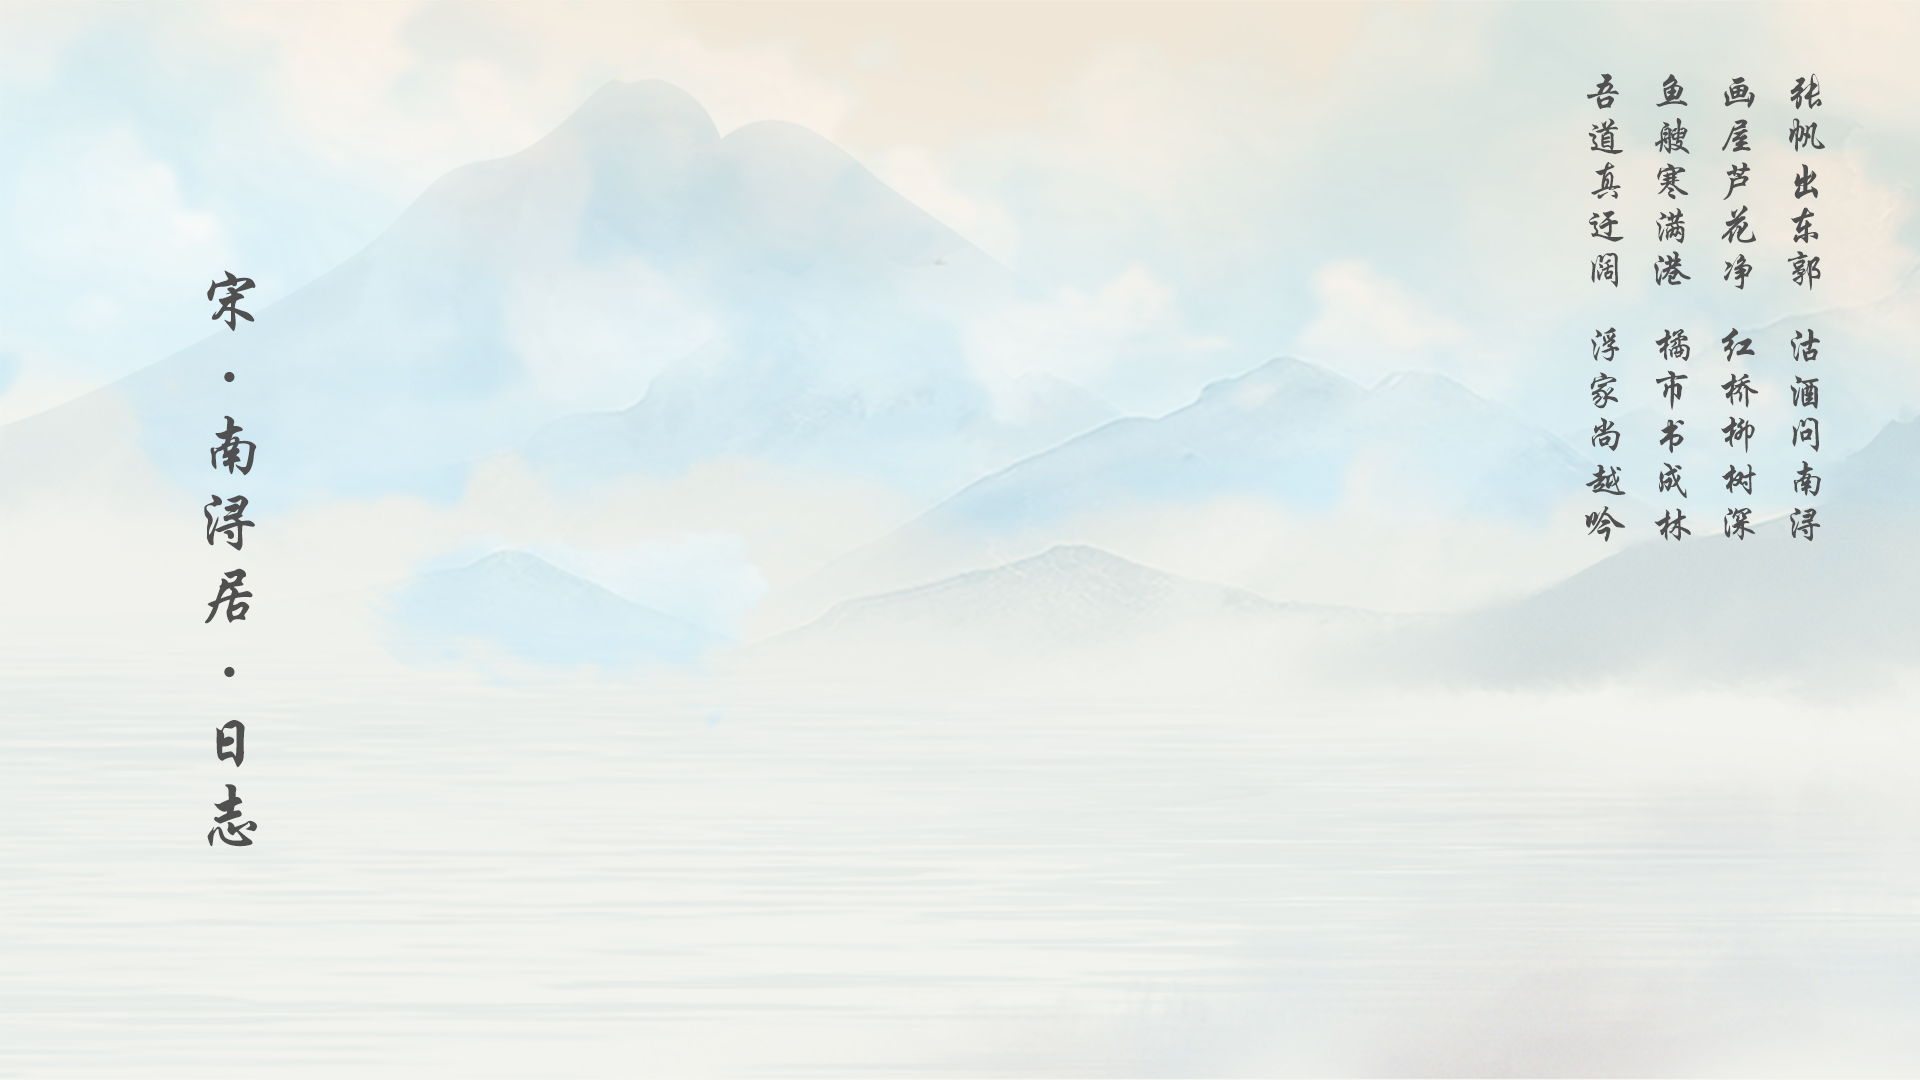
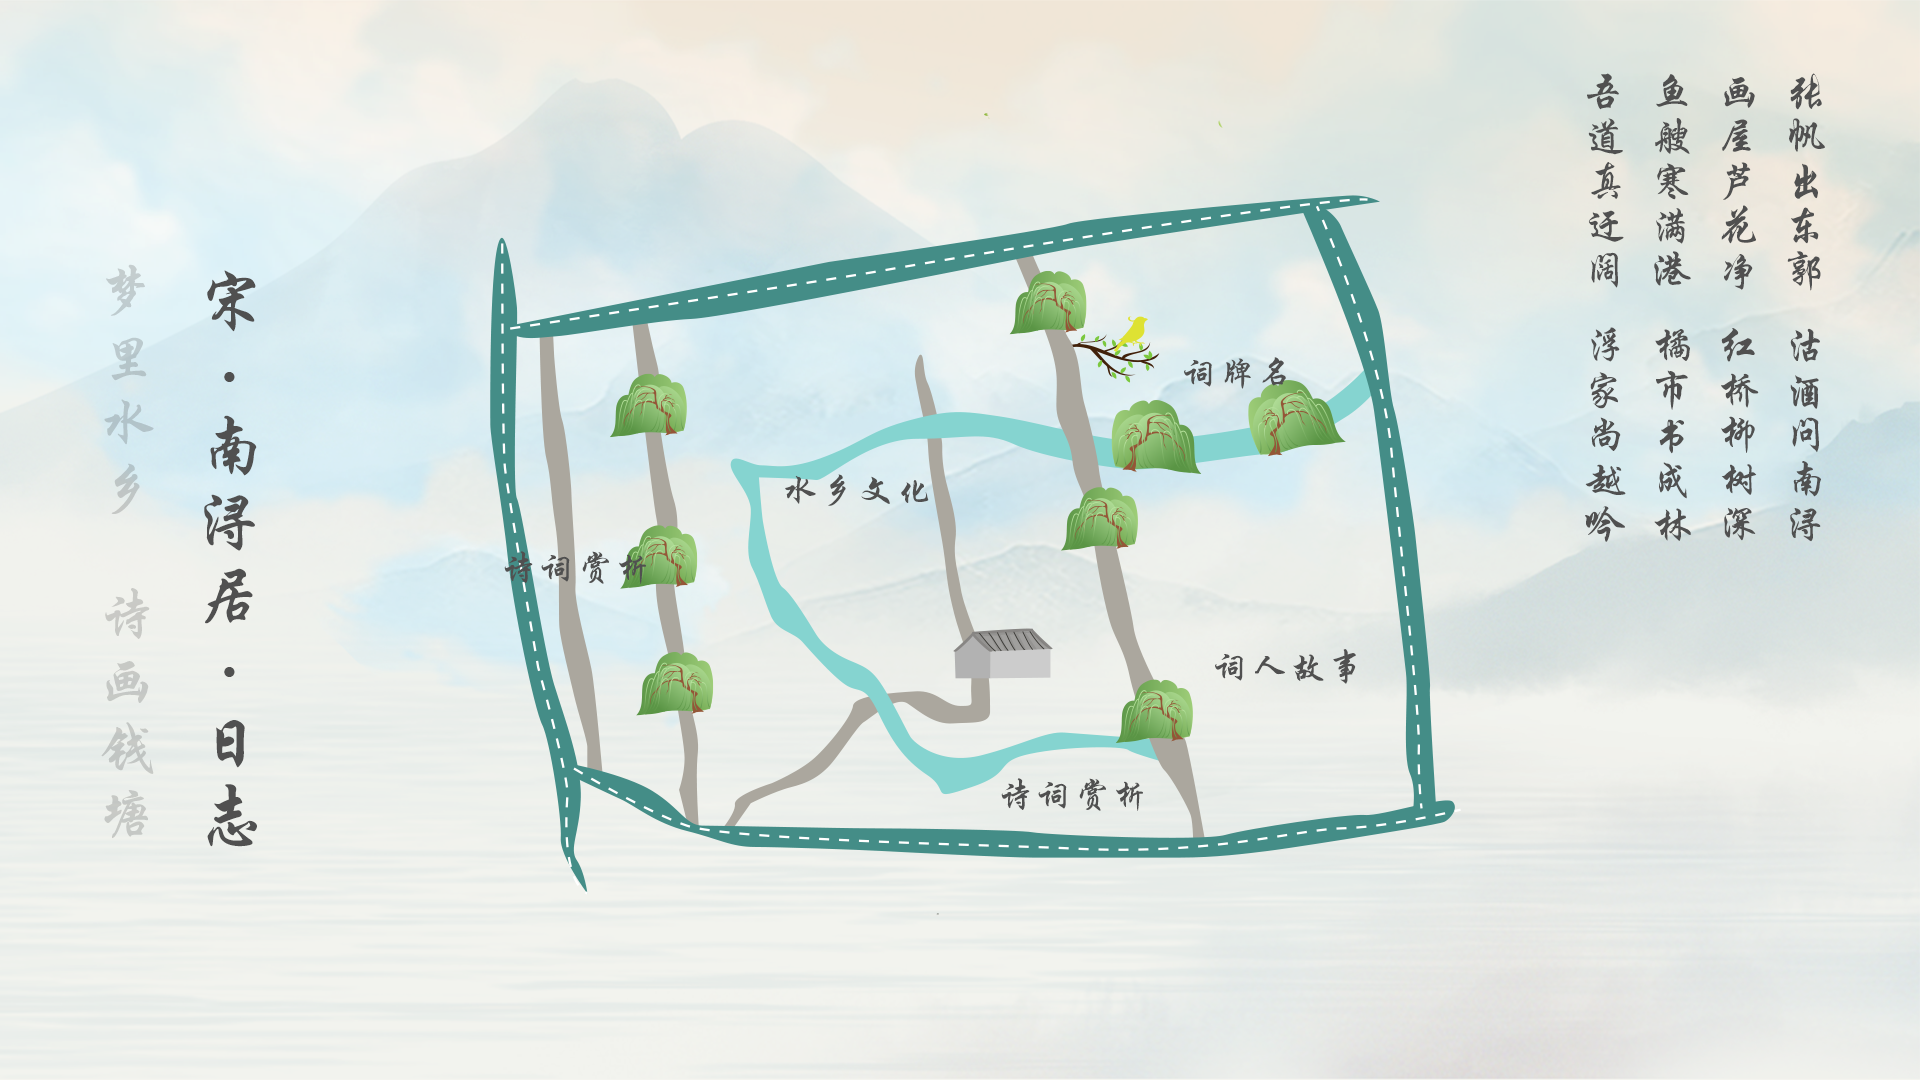
Add files via upload

diff --git a/summary/ditu2.css b/summary/ditu2.css
@@ -48,8 +48,8 @@ img{
     z-index: 80;
     width: 7%;
     height: 9%;
-    top:40%;
-    left: 23%;
+    top:41%;
+    left: 27%;
     cursor: pointer;
 }
 .img2_9{
@@ -57,8 +57,8 @@ img{
     z-index: 80;
     width: 7%;
     height: 9%;
-    top:33%;
-    left: 40%;
+    top:34%;
+    left: 42%;
     cursor: pointer;
 }
 .img2_10{
@@ -66,7 +66,7 @@ img{
     z-index: 80;
     width: 8%;
     height: 6%;
-    top:25%;
+    top:26%;
     left: 60%;
     cursor: pointer;
 }
@@ -75,17 +75,17 @@ img{
     z-index: 80;
     width: 7%;
     height: 12%;
-    top:50%;
+    top:48%;
     left: 63%;
     cursor: pointer;
 }
 .img2_13{
     position: absolute;
     z-index: 80;
-    width:6%;
-    height:9%;
-    top:68%;
-    left: 50%;
+    width:5%;
+    height:8%;
+    top:63%;
+    left: 52%;
     cursor: pointer;
 }
 .img2_15{
@@ -93,7 +93,7 @@ img{
     z-index: 80;
     width:6%;
     height:11%;
-    top:50%;
+    top:48%;
     left: 37%;
     cursor: pointer;
 }

diff --git a/summary/ditu.css b/summary/ditu.css
@@ -48,8 +48,8 @@ img{
     z-index: 80;
     width: 8%;
     height: 10%;
-    top:27%;
-    left: 40%;
+    top:28%;
+    left: 39%;
     cursor: pointer;
 }
 .img2_2{
@@ -57,8 +57,8 @@ img{
     z-index: 80;
     width: 5%;
     height: 6%;
-    top:33%;
-    left: 55%;
+    top:34%;
+    left: 52%;
     cursor: pointer;
 }
 .img2_3{
@@ -66,7 +66,7 @@ img{
     z-index: 80;
     width: 8%;
     height: 12%;
-    top:6%;
+    top:8%;
     left: 63%;
     cursor: pointer;
 }
@@ -75,16 +75,16 @@ img{
     z-index: 80;
     width: 4%;
     height: 9%;
-    top:40%;
-    left: 73%;
+    top:43%;
+    left: 68%;
     cursor: pointer;
 }
 .img2_5{
     position: absolute;
     z-index: 80;
-    width:9%;
+    width:8%;
     height: 14%;
-    top:68%;
+    top:71%;
     left: 56%;
     cursor: pointer;
 }

diff --git a/summary/ditu.html b/summary/ditu.html
@@ -7,9 +7,9 @@
 </head>
 <body>
 <div class="img1">
-    <img class="img1_back" src="img/ditu.png">
+    <img class="img1_back" src="img/ditutang.png">
     <div class="ditu1">
-        <img class="img1_ditu" src="img/ditu1.png">
+
 
     </div>
     <div class="img2">

diff --git a/summary/ditu2.html b/summary/ditu2.html
@@ -9,7 +9,7 @@
 <div class="img1">
     <img class="img1_back" src="img/ditusong.png">
     <div class="ditu1">
-        <img class="img1_ditu" src="img/ditu2.png">
+
 
     </div>
     <div class="img2">
